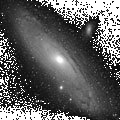
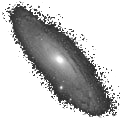
Now draws DSOs in correct positions!

diff --git a/assets/images/index.js b/assets/images/index.js
@@ -1,0 +1,112 @@
+export const IMAGES = {
+  M1: { img: require('./M1.png') },
+  M2: { img: require('./M2.png') },
+  M3: { img: require('./M3.png') },
+  M4: { img: require('./M4.png') },
+  M5: { img: require('./M5.png') },
+  M6: { img: require('./M6.png') },
+  M7: { img: require('./M7.png') },
+  M8: { img: require('./M8.png') },
+  M9: { img: require('./M9.png') },
+  M10: { img: require('./M10.png') },
+  M11: { img: require('./M11.png') },
+  M12: { img: require('./M12.png') },
+  M13: { img: require('./M13.png') },
+  M14: { img: require('./M14.png') },
+  M15: { img: require('./M15.png') },
+  M16: { img: require('./M16.png') },
+  M17: { img: require('./M17.png') },
+  M18: { img: require('./M18.png') },
+  M19: { img: require('./M19.png') },
+  M20: { img: require('./M20.png') },
+  M21: { img: require('./M21.png') },
+  M22: { img: require('./M22.png') },
+  M23: { img: require('./M23.png') },
+  M24: { img: require('./M24.png') },
+  M25: { img: require('./M25.png') },
+  M26: { img: require('./M26.png') },
+  M27: { img: require('./M27.png') },
+  M28: { img: require('./M28.png') },
+  M29: { img: require('./M29.png') },
+  M30: { img: require('./M30.png') },
+  M31: { img: require('./M31.png') },
+  M32: { img: require('./M32.png') },
+  M33: { img: require('./M33.png') },
+  M34: { img: require('./M34.png') },
+  M35: { img: require('./M35.png') },
+  M36: { img: require('./M36.png') },
+  M37: { img: require('./M37.png') },
+  M38: { img: require('./M38.png') },
+  M30: { img: require('./M30.png') },
+  M40: { img: require('./M40.png') },
+  M41: { img: require('./M41.png') },
+  M42: { img: require('./M42.png') },
+  M43: { img: require('./M43.png') },
+  M44: { img: require('./M44.png') },
+  M45: { img: require('./M45.png') },
+  M46: { img: require('./M46.png') },
+  M47: { img: require('./M47.png') },
+  M48: { img: require('./M48.png') },
+  M49: { img: require('./M49.png') },
+  M50: { img: require('./M50.png') },
+  M51: { img: require('./M51.png') },
+  M52: { img: require('./M52.png') },
+  M53: { img: require('./M53.png') },
+  M54: { img: require('./M54.png') },
+  M55: { img: require('./M55.png') },
+  M56: { img: require('./M56.png') },
+  M57: { img: require('./M57.png') },
+  M58: { img: require('./M58.png') },
+  M59: { img: require('./M59.png') },
+  M60: { img: require('./M60.png') },
+  M61: { img: require('./M61.png') },
+  M62: { img: require('./M62.png') },
+  M63: { img: require('./M63.png') },
+  M64: { img: require('./M64.png') },
+  M65: { img: require('./M65.png') },
+  M66: { img: require('./M66.png') },
+  M67: { img: require('./M67.png') },
+  M68: { img: require('./M68.png') },
+  M69: { img: require('./M69.png') },
+  M70: { img: require('./M70.png') },
+  M71: { img: require('./M71.png') },
+  M72: { img: require('./M72.png') },
+  M73: { img: require('./M73.png') },
+  M74: { img: require('./M74.png') },
+  M75: { img: require('./M75.png') },
+  M76: { img: require('./M76.png') },
+  M77: { img: require('./M77.png') },
+  M78: { img: require('./M78.png') },
+  M79: { img: require('./M79.png') },
+  M80: { img: require('./M80.png') },
+  M81: { img: require('./M81.png') },
+  M82: { img: require('./M82.png') },
+  M83: { img: require('./M83.png') },
+  M84: { img: require('./M84.png') },
+  M85: { img: require('./M85.png') },
+  M86: { img: require('./M86.png') },
+  M87: { img: require('./M87.png') },
+  M88: { img: require('./M88.png') },
+  M89: { img: require('./M89.png') },
+  M90: { img: require('./M90.png') },
+  M91: { img: require('./M91.png') },
+  M92: { img: require('./M92.png') },
+  M93: { img: require('./M93.png') },
+  M94: { img: require('./M94.png') },
+  M95: { img: require('./M95.png') },
+  M96: { img: require('./M96.png') },
+  M97: { img: require('./M97.png') },
+  M98: { img: require('./M98.png') },
+  M99: { img: require('./M99.png') },
+  M100: { img: require('./M100.png') },
+  M101: { img: require('./M101.png') },
+  M102: { img: require('./M102.png') },
+  M103: { img: require('./M103.png') },
+  M104: { img: require('./M104.png') },
+  M105: { img: require('./M105.png') },
+  M106: { img: require('./M106.png') },
+  M107: { img: require('./M107.png') },
+  M108: { img: require('./M108.png') },
+  M109: { img: require('./M109.png') },
+  M110: { img: require('./M110.png') }
+};

diff --git a/src/components/StarMap.js b/src/components/StarMap.js
@@ -10,9 +10,13 @@ import Svg, {
 } from 'react-native-svg';
 import Star from './svg/Star';
 import StarGradient from './svg/StarGradient';
-import { getXYCoords, isInView } from '../utils';
-
-import M81 from '../../assets/images/M81.png';
+import { IMAGES } from '../../assets/images';
+import {
+  ARCMINUTE_TO_DEG,
+  getXYCoords,
+  isInView,
+  HALF_IMG_WIDTH
+} from '../utils';
 
 export class StarMap extends Component {
   static propTypes = {
@@ -27,8 +31,45 @@ export class StarMap extends Component {
 
   drawDSOs() {
     // TODO check the dsos array for real
+    let { view, location, size } = this.props;
+    view.magAdjustment = view.skyDarkness / 100;
+    view.magLimitAdjusted = view.magLimit - view.magAdjustment;
+    view.width = size;
+    view.height = size;
 
-    return <Image x="5" y="5" href={M81} />;
+    console.log('drawStars', view);
+
+    return this.props.dsos.map(dso => {
+      let { ra, dec, r1, r2, angle, cat1, id1, mag } = dso;
+      if (!r2) {
+        r2 = r1;
+      }
+      let { x, y } = getXYCoords(ra, dec, view, location);
+
+      if (!isInView(x, y, mag, view)) {
+        return;
+      }
+
+      let scale = view.height / view.fov; // 1.3 fudge factor to make up for image size
+      let dsoWidth = Math.ceil(r1 * ARCMINUTE_TO_DEG * scale);
+      let dsoHeight = Math.ceil(r2 * ARCMINUTE_TO_DEG * scale);
+
+      let dsoName = `${cat1}${id1}`;
+
+      //   console.log(`drawing dso ${dsoName} x=${x} y=${y} mag=${mag}
+      //     width=${dsoWidth}, height=${dsoHeight}, scale=${scale}`);
+
+      return (
+        <Image
+          key={dsoName}
+          x={x - dsoWidth / 2}
+          y={y - dsoHeight / 2}
+          width={dsoWidth}
+          height={dsoHeight}
+          href={IMAGES[dsoName].img}
+        />
+      );
+    });
   }
 
   drawStars() {

diff --git a/src/utils/index.js b/src/utils/index.js
@@ -8,6 +8,7 @@ export const SCREEN = {
 
 export const DSO_SCALE_CONSTANT = 0.7; // You won't see the full extent of the object in most scopes, so make it a bit smaller
 export const RA_TO_DEG = 24 / 360;
+export const HALF_IMG_WIDTH = 55;
 
 export function getXYCoords(ra, dec, view, location) {
   //   console.log('getXY', ra, dec, view, location);
@@ -22,7 +23,14 @@ export function getXYCoords(ra, dec, view, location) {
   let offsetX = (location.ra - ra) / widthRA * view.width / 2;
   let offsetY = (location.dec - dec) / widthDec * view.height / 2;
 
-  //   console.log('getXY calcs', x, y, widthRA, widthDec, offsetX, offsetY);
+  //   if (
+  //     offsetX > 0 &&
+  //     offsetY > 0 &&
+  //     offsetX < view.width &&
+  //     offsetY < view.height
+  //   ) {
+  //     console.log('getXY calcs', x, y, widthRA, widthDec, offsetX, offsetY);
+  //   }
 
   return { x: x + offsetX, y: y + offsetY };
 }

diff --git a/src/containers/starhop/StarHopMain.js b/src/containers/starhop/StarHopMain.js
@@ -14,10 +14,10 @@ export default class StarHopMain extends Component {
         <StarMap
           stars={STARS0.stars}
           dsos={dsos}
-          view={{ fov: 7, magLimit: 8, skyDarkness: 0 }}
+          view={{ fov: 3, magLimit: 15, skyDarkness: 0 }}
           location={{
-            ra: 0.5,
-            dec: 38.92
+            ra: 0.75,
+            dec: 41.25
           }}
           size={400}
         />
